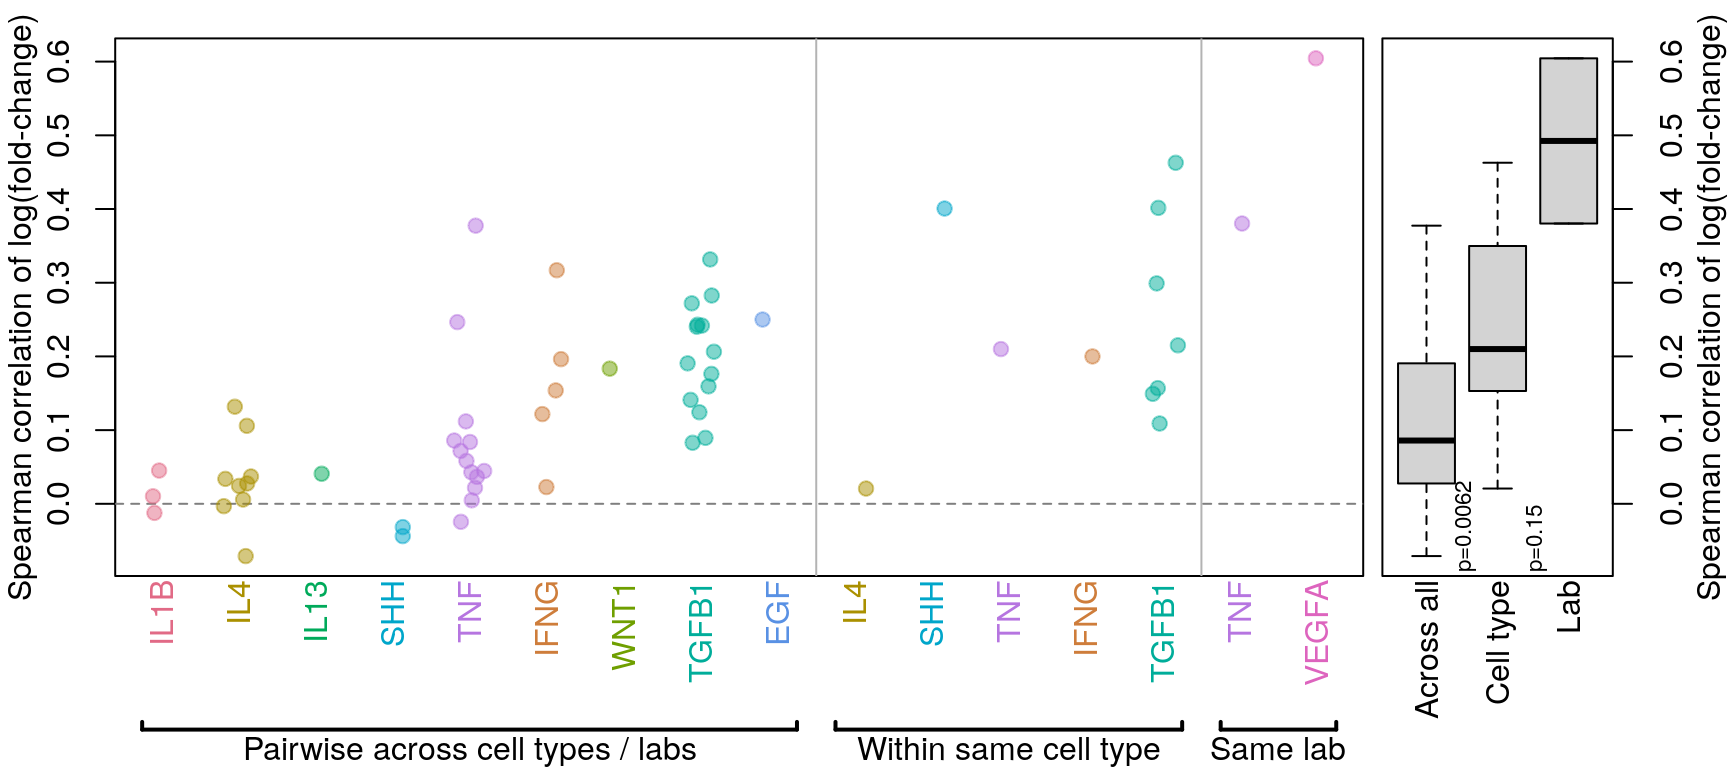
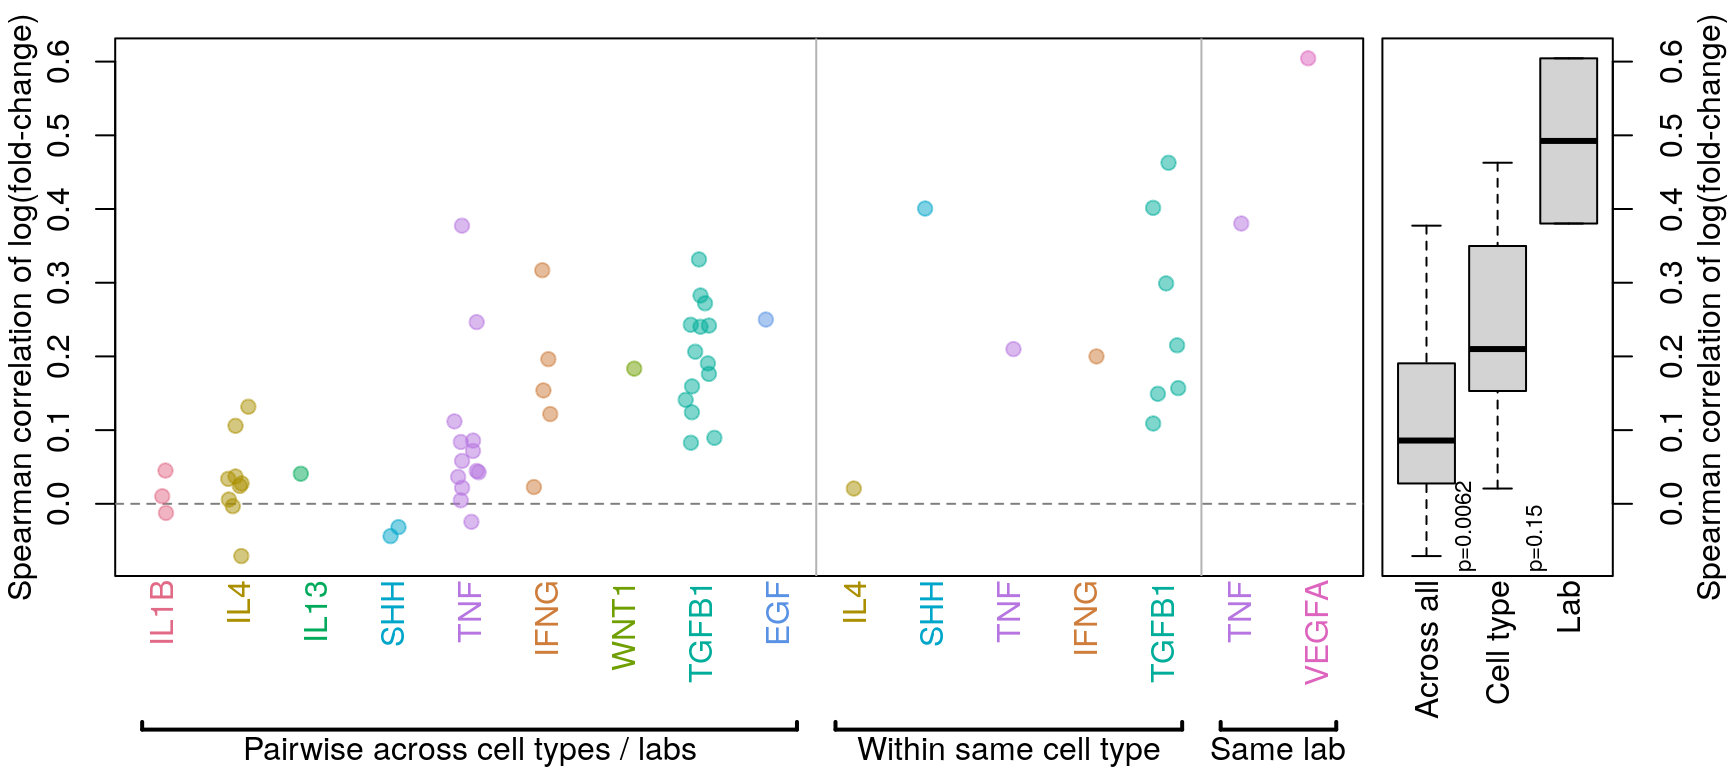
added new version of NN DE comparison

diff --git a/docs/NicheNet.html b/docs/NicheNet.html
@@ -389,6 +389,7 @@ $(document).ready(function () {
 <h1>NicheNet calculation sanity check</h1>
 <p><img src="NicheNet_files/figure-html/plot_raw-1.png" width="576" /></p>
 <p>Looks like the sign of the logFC is flipped in the NicheNet calculations. Multiplying logFC values from the NicheNet dataset by -1 for the remainder of this analysis.</p>
+<hr />
 </div>
 <div id="comparing-across-vs-within-cell-type-per-ligand-treatment" class="section level1">
 <h1>Comparing across vs within cell type per ligand treatment</h1>
@@ -396,12 +397,14 @@ $(document).ready(function () {
 All data (including time-series) is included in this analysis. NicheNet calculation of time-series data seems to result in all positive logFC values, so that makes some things a little screwy. In those cases, time-series data was only compared to other time-series data.</p>
 <div id="correlation" class="section level2">
 <h2>Correlation</h2>
-<p><img src="NicheNet_files/figure-html/AvC_corr_plot-1.png" width="864" /></p>
+<p><img src="NicheNet_files/figure-html/AvC_corr_plot-1.png" width="768" /></p>
 </div>
 <div id="differential-gene-expression" class="section level2">
 <h2>Differential gene expression</h2>
 <p>Differentially expressed genes were determined by |logFC| &gt;= 1 and FDR &lt;= 0.1 (similar to Browaeys <em>et al.</em>, 2020). This figure shows number of DE genes overlapping across all datasets testing the same ligand vs. datasets testing the same ligand in the same cell type vs. datasets from the same accession number (and same ligand / cell type). P-values for overlap (y-axis) were determined after determining probability of overlapping DE genes by chance through bootstrapping.</p>
 <p><img src="NicheNet_files/figure-html/AvC_diffexp_boxplot_v2-1.png" width="864" /></p>
+<p><img src="NicheNet_files/figure-html/AvC_diffexp_boxplot_v3-1.png" width="864" /></p>
+<hr />
 </div>
 </div>
 <div id="using-all-data-including-time-series" class="section level1">
